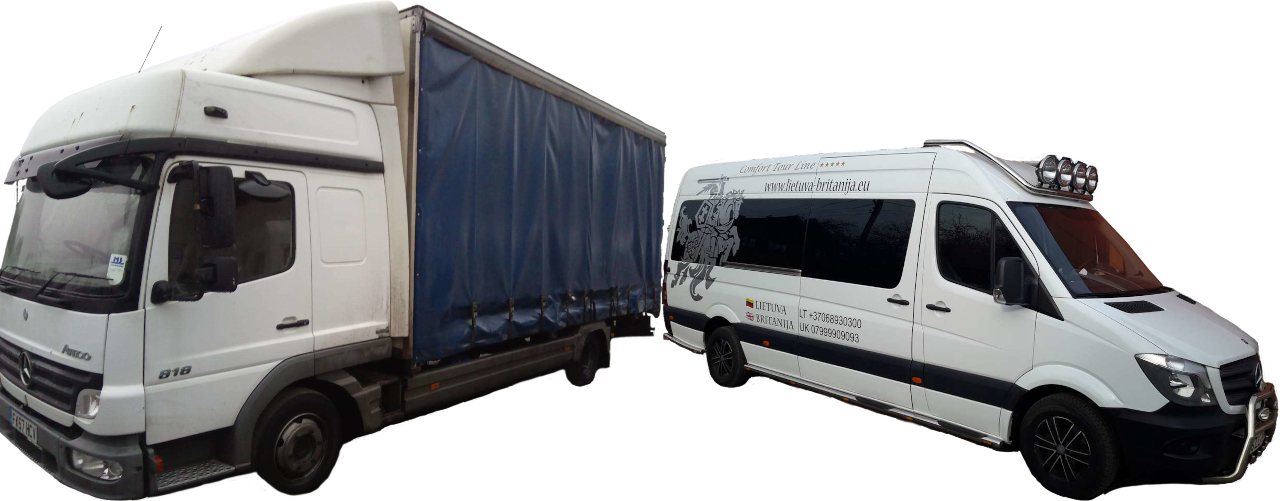
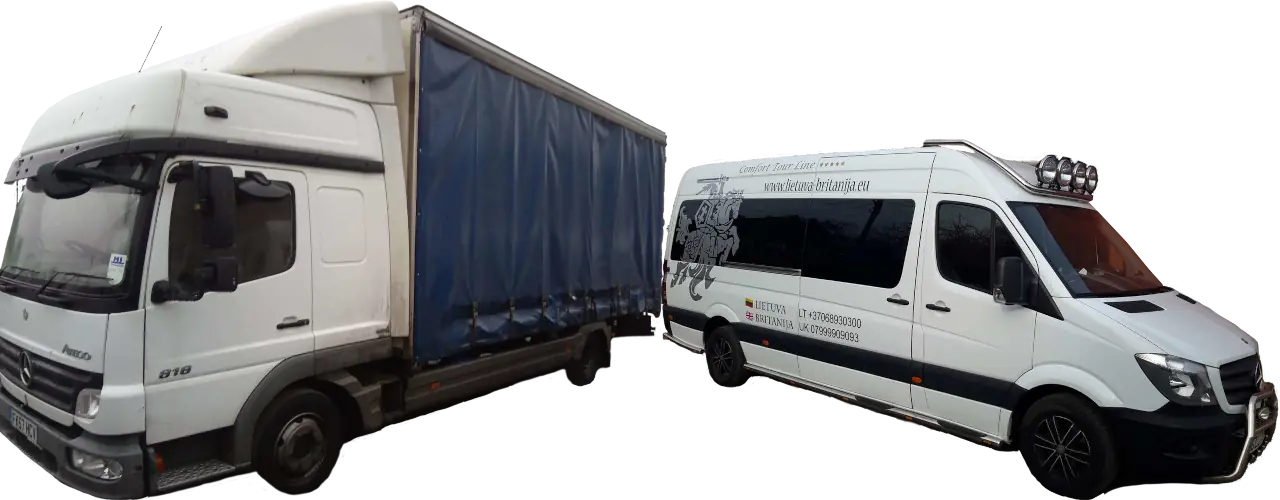
17

diff --git a/index-lt.html b/index-lt.html
@@ -4,9 +4,9 @@
 		<meta charset="utf-8">
 		<meta name="viewport" content="width=device-width, initial-scale=1">
 		<meta name="Description" content="Lietuva Britanija pervezimai i Anglija,
-			    siuntos i Anglija, siuntos i Lietuva, siuntos I Skotija,
+			    siuntos i Anglija, siuntos i Lietuva, siuntos i olandija,
 			    keleiviu pervezimai, gyvunu pervezimai, perkraustymai i Anglija">
-		<title>Lietuva-Britanija keleivių, siuntų pervežimo ir perkraustymo paslaugos</title>
+		<title>Lietuva-Britanija</title>
 		<link rel="stylesheet" href="style.css">
 	</head>
 
@@ -22,7 +22,7 @@
 
 
 
-			<img src="vehicles-2.webp" alt="Vehicles" style="max-width:100%;height:auto;">
+			<img src="vehicles.webp" alt="Vehicles" style="max-width:100%;height:auto;">
 			<h1 style="text-align:center;">Lietuva-Britanija</h1>
 			<p>
 			Keleivių, bagažo, siuntinių, krovinių, automobilių, motociklų, buitinės technikos, baldų, gyvūnų pervežimai.
